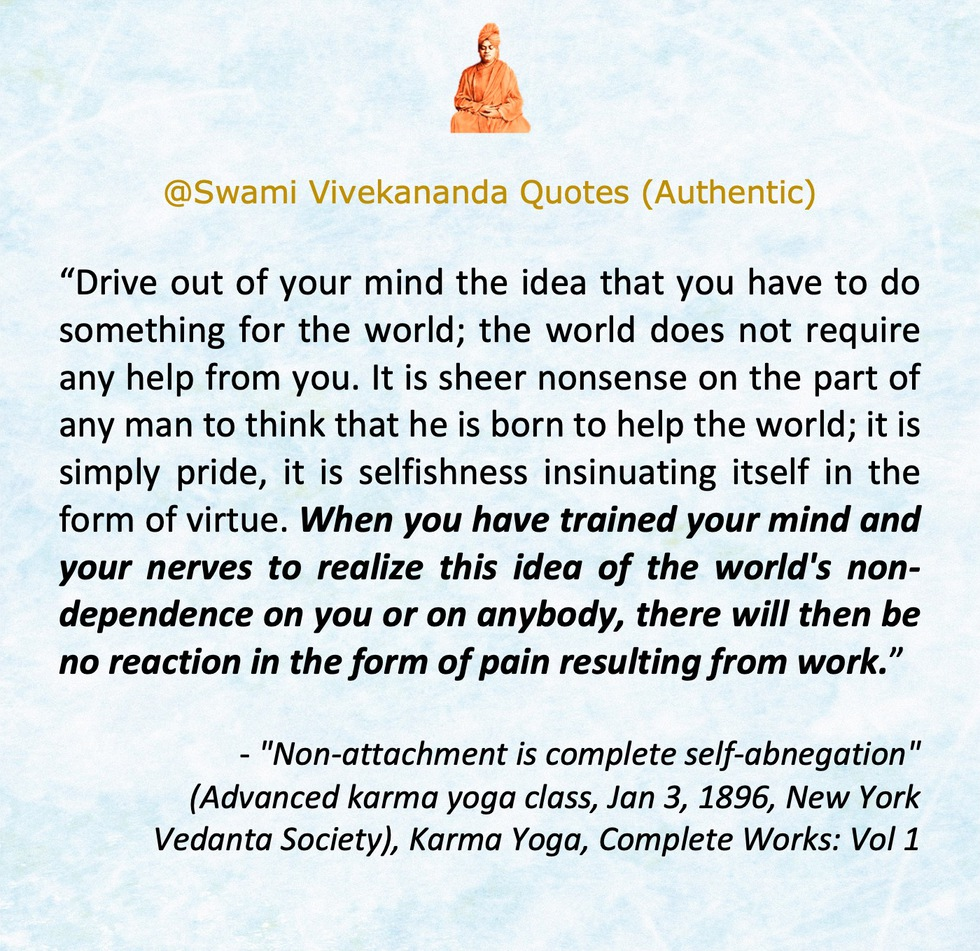
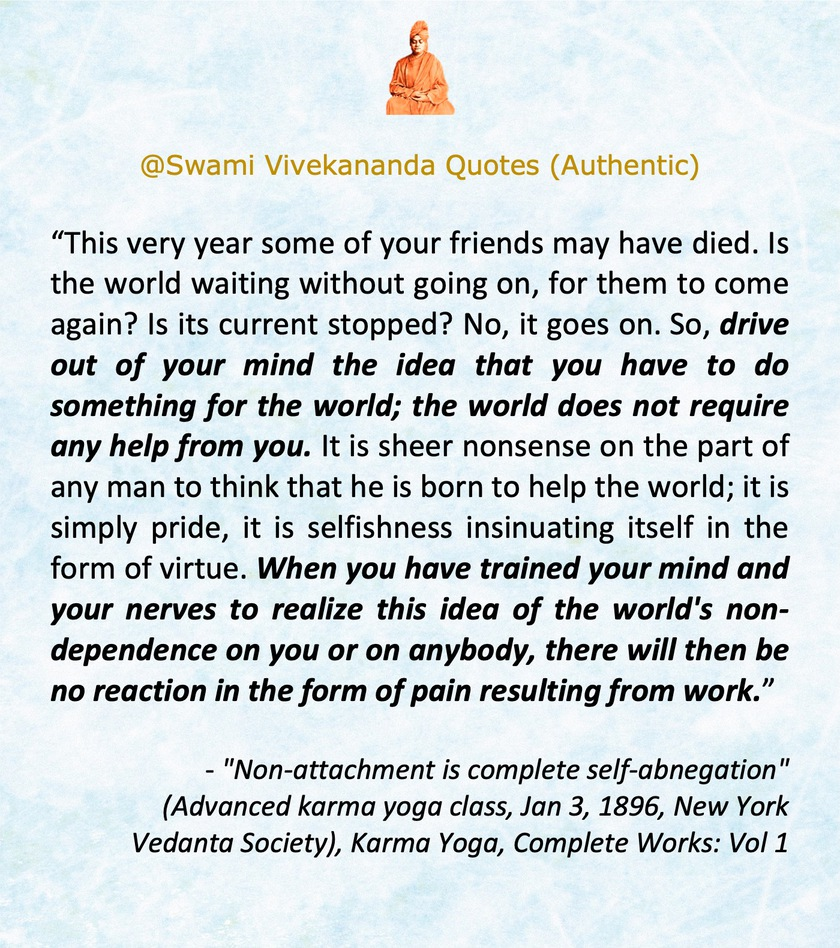
sv

Changed region(s): [[0.0619, 0.2447, 0.9595, 0.9177], [0.1548, 0.0306, 0.8357, 0.2141]]

diff --git a/images/P199.html b/images/P199.html
@@ -4,7 +4,7 @@
 <meta property="og:url" content="https://swami-vivekananda-quotes-authentic.github.io/images/P199.jpeg" />
 <meta property="og:type" content="article" />
 <meta property="og:title" content="Non-attachment is complete self-abnegation" />
-<meta property="og:description" content="Drive out of your mind the idea that you have to do something for the world; the world does not require any help from you. It is sheer nonsense on the part of any man to think that he is born to help the world; it is simply pride, it is selfishness insinuating itself in the form of virtue. When you have trained your mind and your nerves to realize this idea of the world's non-dependence on you or on anybody, there will then be no reaction in the form of pain resulting from work. " />
+<meta property="og:description" content="This very year some of your friends may have died. Is the world waiting without going on, for them to come again? Is its current stopped? No, it goes on. So out of your mind the idea that you have to do something for the world; the world does not require any help from you. It is sheer nonsense on the part of any man to think that he is born to help the world; it is simply pride, it is selfishness insinuating itself in the form of virtue. When you have trained your mind and your nerves to realize this idea of the world's non-dependence on you or on anybody, there will then be no reaction in the form of pain resulting from work. " />
 <meta property="og:image" content="https://swami-vivekananda-quotes-authentic.github.io/images/P199.jpeg" />
 </head>
 <body>
@@ -24,7 +24,7 @@ a2a_config.overlays.push({services: ['pinterest', 'facebook', 'twitter', 'telegr
 <div class="wrapper">
 <div align="center"><img id="myImg" class="center" border="0" src="P199.jpeg" style="float:none;">
 <p>
-"Drive out of your mind the idea that you have to do something for the world; the world does not require any help from you. It is sheer nonsense on the part of any man to think that he is born to help the world; it is simply pride, it is selfishness insinuating itself in the form of virtue. When you have trained your mind and your nerves to realize this idea of the world's non-dependence on you or on anybody, there will then be no reaction in the form of pain resulting from work. "<br><br>
+"This very year some of your friends may have died. Is the world waiting without going on, for them to come again? Is its current stopped? No, it goes on. So out of your mind the idea that you have to do something for the world; the world does not require any help from you. It is sheer nonsense on the part of any man to think that he is born to help the world; it is simply pride, it is selfishness insinuating itself in the form of virtue. When you have trained your mind and your nerves to realize this idea of the world's non-dependence on you or on anybody, there will then be no reaction in the form of pain resulting from work. "<br><br>
 - Swami Vivekananda, "Non-attachment is complete self-abnegation" (Advanced karma yoga class, Jan 3, 1896, New York Vedanta Society), Karma Yoga, Complete Works: Vol 1
 </p>
 <hr style="width: 62%; border: 0.3px dotted aquamarine;">
